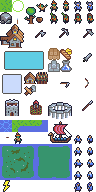
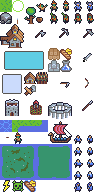
praying mechanics

Changed region(s): [[0.125, 0.9375, 0.375, 1.0], [0.9062, 0.2812, 0.9688, 0.3125], [0.875, 0.3125, 0.9062, 0.3438]]

diff --git a/src/js/ui/renderUI.js b/src/js/ui/renderUI.js
@@ -56,18 +56,30 @@ function gameRenderPost() {
 		tile(36)
 	);
 
-	/*drawText(
-		'' + GLOBAL.wood,
-		uiPos.add(vec2(1.4, -0.1)),
-		1,
-		new Color(0, 0, 0),
-		undefined,
-		undefined,
-		'right'
-	);*/
 	GLOBAL.uiFont.drawText(
 		'' + GLOBAL.wood,
 		uiPos.add(vec2(0.8, 0.2)),
+		0.08,
+		true
+	);
+
+	const manaPos = screenToWorld(vec2(innerWidth - 128, 64));;
+	// mana
+	drawTile(
+		manaPos,
+		vec2(4, 2),
+		tile(vec2(0, 48), vec2(48, 24))
+	);
+	drawTile(
+		manaPos.subtract(vec2(0.8, 0)),
+		vec2(1),
+		tile(45),
+		new Color(1, 1, 1, 0.7)
+	);
+
+	GLOBAL.uiFont.drawText(
+		'' + GLOBAL.mana,
+		manaPos.add(vec2(0.8, 0.2)),
 		0.08,
 		true
 	);
@@ -115,27 +127,6 @@ function gameRenderPost() {
 		true
 	);
 
-	// mana
-	uiPos = uiPos.subtract(vec2(0, 2));
-
-	drawTile(
-		uiPos,
-		vec2(4, 2),
-		tile(vec2(0, 48), vec2(48, 24))
-	);
-	drawTile(
-		uiPos.subtract(vec2(0.8, 0)),
-		vec2(1),
-		tile(45),
-		new Color(1, 1, 1, 0.7)
-	);
-
-	GLOBAL.uiFont.drawText(
-		'' + GLOBAL.mana,
-		uiPos.add(vec2(0.8, 0.2)),
-		0.08,
-		true
-	);
 
 	// population
 	uiPos = uiPos.subtract(vec2(0, 2));

diff --git a/src/js/main.js b/src/js/main.js
@@ -63,9 +63,21 @@ function gameInit() {
 		})
 	);
 	GLOBAL.spellMenu.push(
-		new Button_Spell(innerWidth - 128, innerHeight - 96, tile(120), 10, () => {
+		new Button_Spell(innerWidth - 128, innerHeight - 192, tile(122), 5, () => {
+			GLOBAL.mana -= 5;
+			GLOBAL.food += 10;
+			zzfx(...[.9,,588,,.03,.14,,3.9,,-1,650,.05,.04,,,,.08,.84,.3]);
+		}),
+		new Button_Spell(innerWidth - 128, innerHeight - 320, tile(121), 10, () => {
+			GLOBAL.mana -= 10;
 			for (let i = 0; i < GLOBAL.enemies.length; i++) {
 				GLOBAL.enemies[i].takeDamage(1);
+			}
+		}),
+		new Button_Spell(innerWidth - 128, innerHeight - 448, tile(120), 15, () => {
+			GLOBAL.mana -= 15;
+			for (let i = 0; i < GLOBAL.enemies.length; i++) {
+				GLOBAL.enemies[i].takeDamage(GLOBAL.enemies.length < 2 ? 3 : GLOBAL.enemies.length < 5 ? 2 : 1);
 			}
 			zzfx(...[2.8,,48,,.23,.73,4,1.9,,-4,,,.21,.2,,.5,.41,.36,.07,.29]);
 		})

diff --git a/src/js/objects/PlayerUnit.js b/src/js/objects/PlayerUnit.js
@@ -103,8 +103,11 @@ class PlayerUnit extends Unit {
 				}
 				else if (this.intention == 'pray') {
 					// TODO: check if temple still exists
-					zzfx(...[,.03,405,,,0,3,.1,8,,,,,.1,27,.4,.04,.44,.01]); 
-					GLOBAL.mana++;
+					const chance = (25 - GLOBAL.mana) / 25;
+					if (Math.random() < chance) {
+						zzfx(...[.9, , 600, , , 0, , 3.9, , -1, 650, .05, .04, , , , .08, .84, .18]);
+						GLOBAL.mana++;
+					}
 				}
 				else if (this.intention == 'farm') {
 					// TODO: check if tree still exists

diff --git a/src/js/GLOBAL.js b/src/js/GLOBAL.js
@@ -22,7 +22,7 @@ const GLOBAL = {
 	wood: 12,
 	stone: 10,
 	food: 5,
-	mana: 0,
+	mana: 25,
 
 	voiceIndex: 47,
 	phrases: {},
